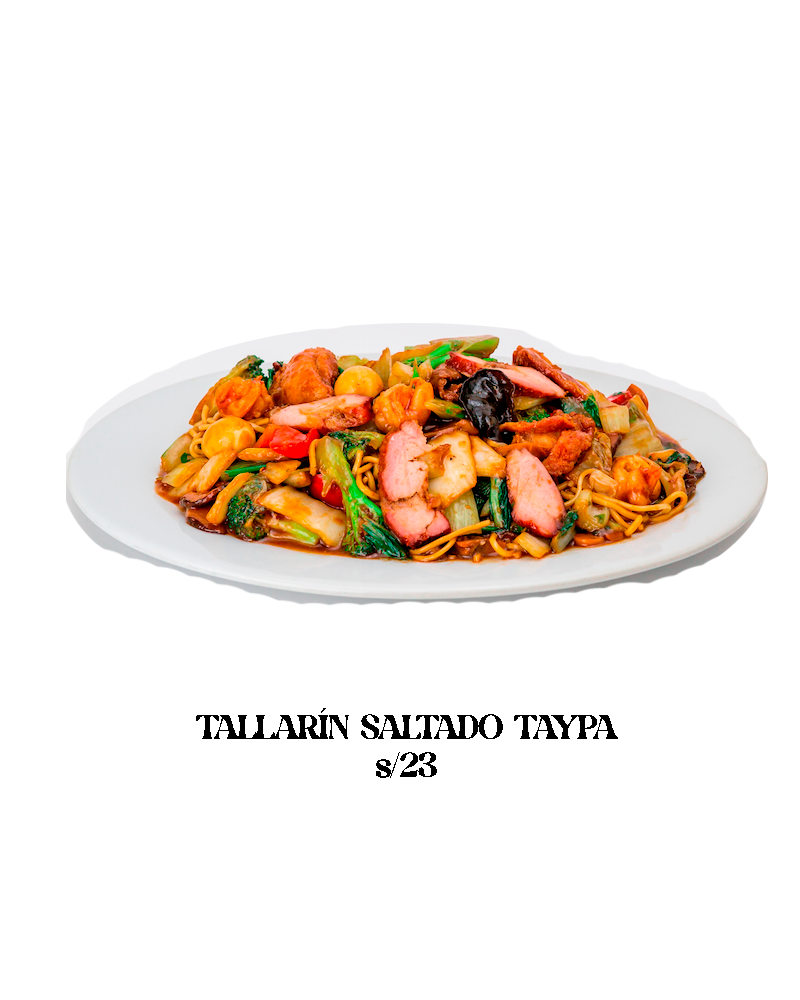
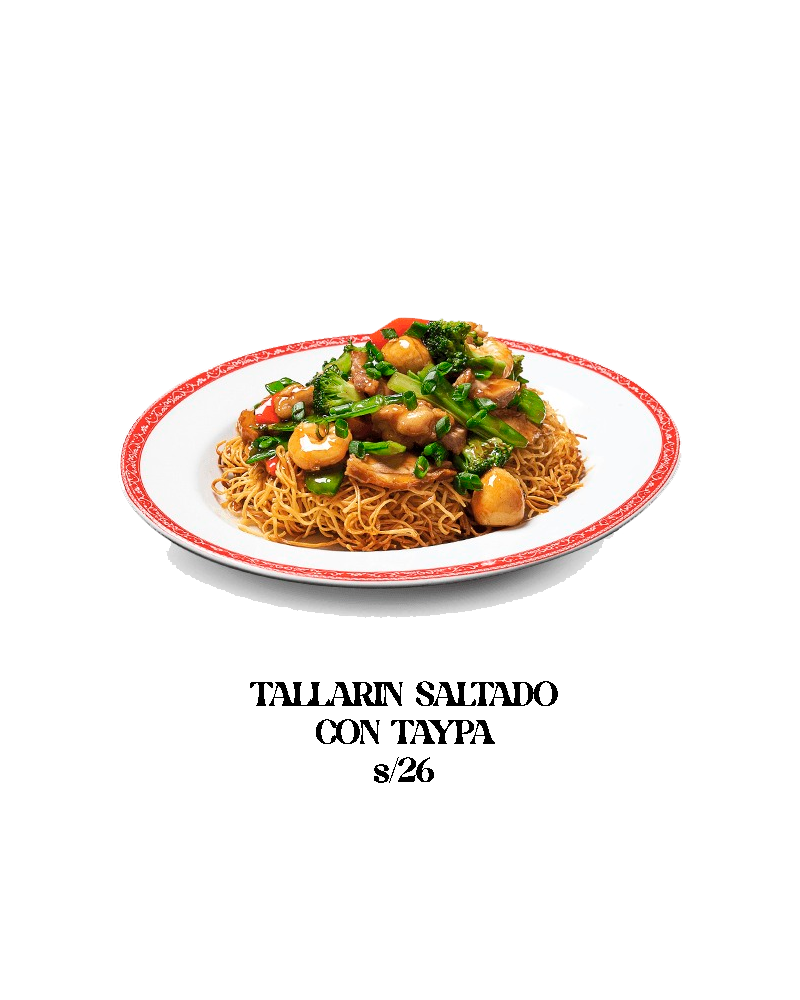
Se agrego las imagenes de los platos de la carta

Changed region(s): [[0.0625, 0.31, 0.9688, 0.62], [0.25, 0.682, 0.7812, 0.806]]

diff --git a/index.html b/index.html
@@ -15,7 +15,6 @@
             <h2 class="logo-nombre">Sabor oriental</h2>
           </div>
           <nav>
-            <a href="" class="nav-link">ESPECIALES</a>
             <a href="#menu_title" class="nav-link">MENÚ</a>
             <a href="#carta_title" class="nav-link">CARTA</a>
             <a href="#sobre_nosotros_title" class="nav-link">SOBRE NOSOTROS</a>
@@ -158,13 +157,73 @@
    <div class="dishes" id="carta">
     <h1 id="carta_title">CARTA</h1>
     <div class="food">
-      <img src="./images/taipa-sin-fondo.png" alt="">
-    </div>
-    <div class="food">
       <img src="./images/combo-1.png" alt="">
     </div>
     <div class="food">
-      <img src="./images/chaufa-especial.png" alt="">
+      <img src="./images/combo-2.png" alt="">
+    </div>
+    <div class="food">
+      <img src="./images/chaufa-con-cecina.png" alt="">
+    </div>
+    <div class="food">
+      <img src="./images/chaufa-con-lomo.png" alt="">
+    </div>
+    <div class="food">
+      <img src="./images/chaufa-con-pato.png" alt="">
+    </div>
+    <div class="food">
+      <img src="./images/sopa-fuchifu.png" alt="">
+    </div>
+    <div class="food">
+      <img src="./images/sopa-wantan-especial.png" alt="">
+    </div>
+    <div class="food">
+      <img src="./images/sopa-suy-cao.png" alt="">
+    </div>
+    <div class="food">
+      <img src="./images/siu-mai.png" alt="">
+    </div>
+    <div class="food">
+      <img src="./images/min-pao.png" alt="">
+    </div>
+    <div class="food">
+      <img src="./images/wantan-frito.png" alt="">
+    </div>
+    <div class="food">
+      <img src="./images/pollo-5-sabores.png" alt="">
+    </div>
+    <div class="food">
+      <img src="./images/chancho-con-piña.png" alt="">
+    </div>
+    <div class="food">
+      <img src="./images/pollo-con-piña.png" alt="">
+    </div>
+    <div class="food">
+      <img src="./images/pollo-con-fruta.png" alt="">
+    </div>
+    <div class="food">
+      <img src="./images/pollo-tamarindo.png" alt="">
+    </div>
+    <div class="food">
+      <img src="./images/pollo-frejolito-chino.png" alt="">
+    </div>
+    <div class="food">
+      <img src="./images/pollo-salsa-ostion.png" alt="">
+    </div>
+    <div class="food">
+      <img src="./images/pollo-tausi.png" alt="">
+    </div>
+    <div class="food">
+      <img src="./images/tallarin-saltado-taypa.png" alt="">
+    </div>
+    <div class="food">
+      <img src="./images/tallarin-saltado-chancho-asado.png" alt="">
+    </div>
+    <div class="food">
+      <img src="./images/pato_asado_piña.png" alt="">
+    </div>
+    <div class="food">
+      <img src="./images/langostino-saltado-champiñones.png" alt="">
     </div>
    </div>
 
@@ -180,7 +239,7 @@
     allow="accelerometer; autoplay; clipboard-write; encrypted-media; gyroscope; picture-in-picture; web-share"
     allowfullscreen
   > </iframe>
-  <img src="./images/sabor-oriental.png" alt="" class="restaurant">
+  <img src="./images/local.png" alt="" class="restaurant">
    </section>
  </main>
 

diff --git a/css/styles.css b/css/styles.css
@@ -17,7 +17,6 @@ header{
     justify-content: space-around;
     align-items: center;
     transition: 0.7s ;
-    /* padding: 0.5%; */
     z-index: 10;
     background: rgba(5, 7, 12, 0.20);
 }
@@ -68,8 +67,6 @@ nav a:hover{
 }
 
 .slider_container{
-    /* border: 2px solid green; */
-    /* block-size: 100px; */
     display: block;
     overflow: hidden;
     scroll-behavior: smooth;
@@ -108,14 +105,12 @@ nav a:hover{
   }
 
 h1{
-
    display: inline-block;
    width: 100%;
    height: auto;
    margin:5px, 0,0, 0;
     text-align: center;
     font-family: 'Montserrat', sans-serif;
-   
 }
  
 
@@ -123,16 +118,12 @@ h1{
 
 .menu{
     width: 100%;
-    /* height: 645px; */
-    /* height: 100%; */
     display: flex;
     background-image: url(../images/flower.png);
     background-repeat: repeat;
-    /* background-size: cover; */
     background-position: center;
     flex-flow: wrap;
     justify-content: space-around;
-    /* align-items: center; */
 }
 
 .food img{
@@ -145,13 +136,11 @@ h1{
 
 .dishes{
     width: 100%;
-    /* height: 645px; */
-    /* height: 100%; */
     display: flex;
     flex-flow: wrap;
     background-image: url(../images/chinese.png);
-    background-repeat: no-repeat;
-    background-size: cover;
+    background-repeat: repeat;
+    background-position: center;
     justify-content:space-around;
   
 }
@@ -159,7 +148,6 @@ h1{
 .video_section{
     display: flex;
     flex-wrap: nowrap;
-
 }
 
 .restaurant{
@@ -178,7 +166,7 @@ h1{
 
 
 footer {
-    background-color: rgba(33, 36, 41, 1);
+    background-color: #4d4c4c;
     height: 174px;
     margin-top: 0;
     display: flex;
@@ -187,6 +175,7 @@ footer {
     align-items: center;
     width: 100%;
   }
+  
 .brand {
     color: rgba(255, 255, 255, 1);
     font-size: 32px;
